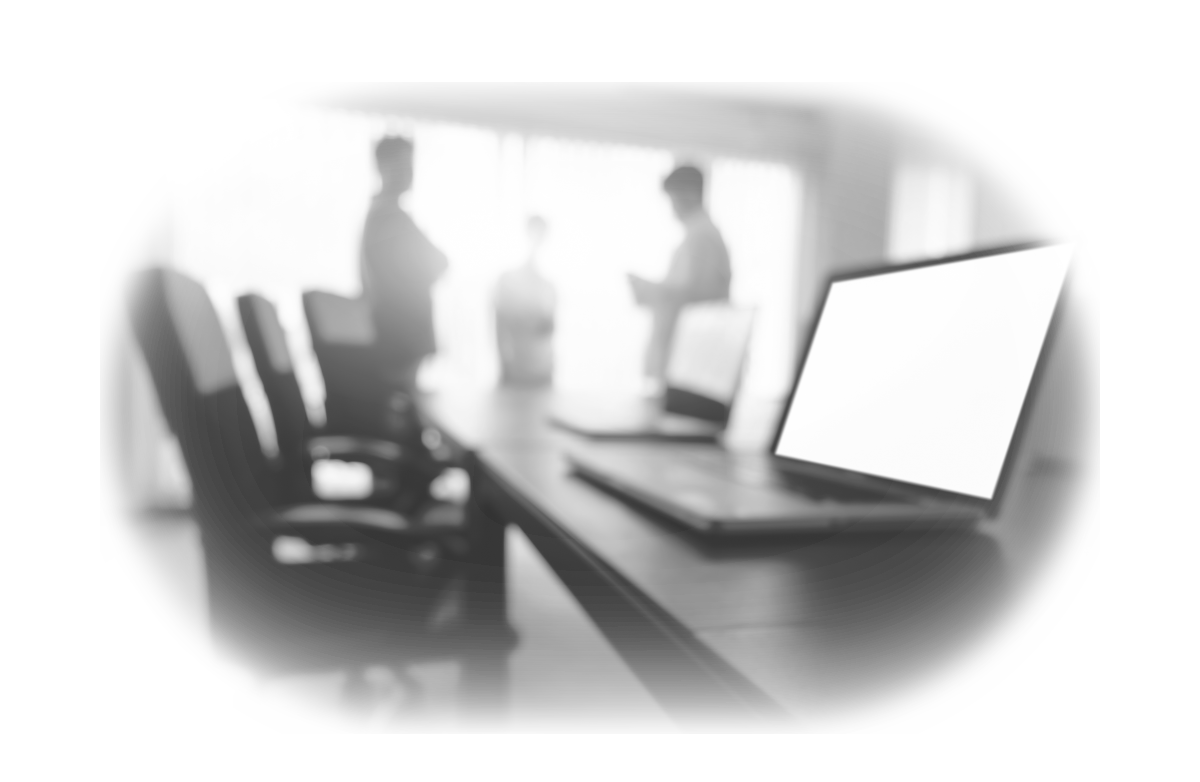
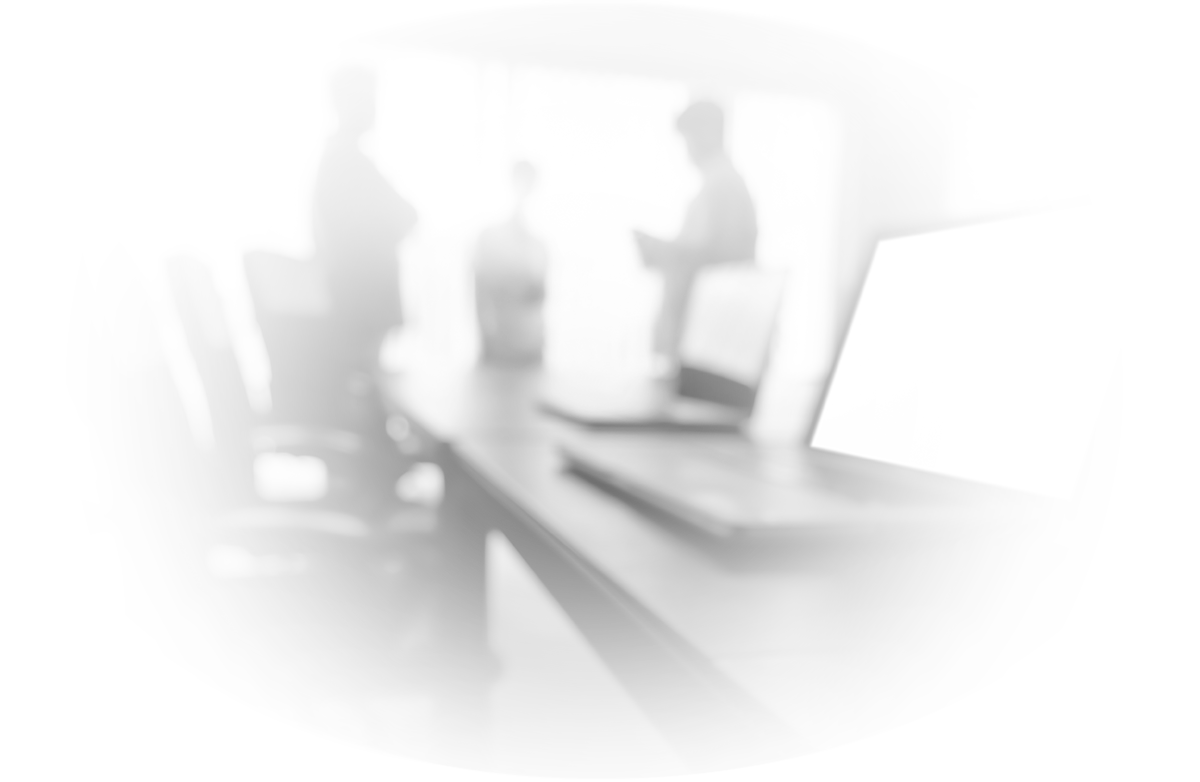
feat: best layout variant; fix: teams (json and styles; fix: about (2 pictures); fix: home_busines.png - new version;

diff --git a/frontend/pages/about/index.js b/frontend/pages/about/index.js
@@ -17,19 +17,39 @@ export default function About({language, props}) {
                         <div className={styles.rightImage}>
                             <div className={styles.picture}>
                                 <Image
-                                    src={image.src}
+                                    src={image[0].src}
                                     width={300}
-                                    height={200}
+                                    height={400}
                                     alt=''
                                 >
                                 </Image>
                             </div>
                             <div className={styles.figcaption}>
-                                {image.capture}
+                                {image[0].capture}
                             </div>
                         </div>
-                        <p className={styles.textAbout} dangerouslySetInnerHTML={{__html:context}}>
-                        </p>
+
+                        <p className={styles.textAbout} dangerouslySetInnerHTML={{__html:context[0]}}/>
+
+                        <br/>
+
+                        <div className={styles.leftImage}>
+                            <div className={styles.picture}>
+                                <Image
+                                    src={image[1].src}
+                                    width={300}
+                                    height={200}
+                                    align='left'
+                                    vspace={5}
+                                    alt=''
+                                >
+                                </Image>
+                            </div>
+                            <div className={styles.figcaption}>
+                                {image[1].capture}
+                            </div>
+                        </div>
+                        <p className={styles.textAbout} dangerouslySetInnerHTML={{__html:context[1]}}/>
                     </div>
                 </div>
                 

diff --git a/frontend/components/public/Teams/TeamItem.js b/frontend/components/public/Teams/TeamItem.js
@@ -3,6 +3,10 @@ import Image from 'next/image'
 import styles from '../../../styles/public/Team.module.scss'
 
 const TeamItem = ( { item } ) => {
+
+    const isFully = item.description?.length > 250 ? true : false;
+    const isEmpty = item.description?.length===undefined
+
     return <>
         <div
             key = {item.id}
@@ -16,8 +20,8 @@ const TeamItem = ( { item } ) => {
                     {item.jobtitle}
                 </h4>
             </div>
-            <div className={styles.personInfo}>
-                <div className={styles.avatar}>
+            <div className={ isEmpty ? styles.personInfoNone : styles.personInfo}>
+                <div className={ isFully ? styles.fullAvatar : styles.avatar }>
                     <div className={styles.picture}>
                         <Image
                             src={"/images/lawyers"+(item.avatar ?? "/lawyer.jpg")}
@@ -29,7 +33,7 @@ const TeamItem = ( { item } ) => {
                         </Image>
                     </div>
                 </div>
-                <div className={styles.description}>
+                <div className={isFully ? styles.fullDescription : styles.description}>
                     <div dangerouslySetInnerHTML={{__html:item.description}}></div>
                 </div>
             </div>

diff --git a/frontend/styles/public/Team.module.scss b/frontend/styles/public/Team.module.scss
@@ -26,11 +26,16 @@
 
 .TeamBoard{
     padding: 0 25px 25px;
+
+    .details{
+        .adress{
+            text-align: center;
+        }
+    }
 }
 
 .TeamItem{
     max-width: 1000px;
-    min-height: 500px;
     background: white;
     border: 1px solid gray;
     -webkit-filter: drop-shadow($shadow);
@@ -60,6 +65,10 @@
         }
     }
 
+    .personInfoNone{
+        display:none
+    }
+
     .personInfo{
         width: 100%;
         display: flex;
@@ -70,9 +79,9 @@
             flex-direction: column;
         }
 
-        .avatar{
+        .fullAvatar, .avatar{
             display: flex;
-            width: 40%;
+            width: 20%;
             height: 100%;
             margin: 0 auto;
             padding: 5px;
@@ -91,8 +100,12 @@
             }
         }
 
-        .description{
-            width: 60%;
+        .fullAvatar{
+            width: 40%;
+        }
+
+        .fullDescription, .description{
+            width: 80%;
 
             @media (max-width:992px) {
                 width: 100%;
@@ -105,6 +118,10 @@
                     color: black
                 }
             }
+        }
+
+        .fullDescription{
+            width: 60%;
         }
     }
 }

diff --git a/frontend/pages/_app.js b/frontend/pages/_app.js
@@ -1,4 +1,4 @@
-import Layout from '../components/public/Layout'
+import Layout from '../components/Layout'
 import AdminLayout from '../components/admin/Layout'
 import AuthLayout from '../components/auth/Layout'
 
@@ -14,30 +14,6 @@ function JurCorpusApp({ Component, pageProps:{session, ...pageProps} }) {
   const language = router.locale
     ? lang[router.locale] : lang.ru;
 
-  const rout = router.pathname.split('/')[1];
-
-  if (rout == 'auth'){
-    return<>
-      <SessionProvider session={session}>
-        <AuthLayout>
-          <Component 
-            {...pageProps}
-          />
-        </AuthLayout>
-      </SessionProvider>
-    </>
-  } else {
-    if (rout == 'admin'){
-      return<>
-          <SessionProvider session={session}>
-            <AdminLayout>
-              <Component 
-                {...pageProps}
-              />
-            </AdminLayout>
-          </SessionProvider>
-      </>
-    } else {
       return <>
         <Layout
           language={language}
@@ -48,9 +24,6 @@ function JurCorpusApp({ Component, pageProps:{session, ...pageProps} }) {
           />
         </Layout>
       </>
-    }
-  }
-  
 }
 
 export default JurCorpusApp;

diff --git a/frontend/components/Layout.js b/frontend/components/Layout.js
@@ -1,0 +1,42 @@
+import AdminLayout from './admin/Layout'
+import AuthLayout from './auth/Layout'
+import PublicLayout from './public/Layout'
+
+import { SessionProvider } from "next-auth/react"
+import { useRouter } from 'next/router';
+
+const Layout = ( { children, session, language }) => {
+
+    const router = useRouter();
+    const rout = router.pathname.split('/')[1];
+
+    if (rout == 'auth') {
+        return <>
+            <SessionProvider session={session}>
+                <AuthLayout>
+                    { children }
+                </AuthLayout>
+            </SessionProvider>
+        </>
+    } else {
+        if (rout == 'admin') {
+            return <>
+                <SessionProvider session={session}>
+                    <AdminLayout>
+                        { children }
+                    </AdminLayout>
+                </SessionProvider>
+            </>
+        } else {
+            return <>
+                <PublicLayout
+                    language={language}
+                >
+                    {children}
+                </PublicLayout>
+            </>
+        }
+    }
+}
+
+export default Layout;

diff --git a/frontend/styles/public/About.module.scss b/frontend/styles/public/About.module.scss
@@ -70,13 +70,37 @@
         font-size: 16px;
     }
 
-    .rightImage{
+    .leftImage,.rightImage{
         display: flex;
         flex-direction: column;
+        align-self: flex-start;
         width: 300px;
-        height: calc(200px + 1rem);
+        height: calc(400px + 1rem);
         float:right;
         margin: 10px;
+
+        .picture{
+            height: 400px;
+            margin: 0 auto;
+            border: 1px solid gray;
+            -webkit-filter: drop-shadow($shadow);
+        }
+        .figcaption{
+            display: flex;
+            color: gray;
+            justify-content: center;
+        }
+
+        @media (max-width: 1024px) {
+            float: none;
+            margin: 0 auto;
+        }
+    }
+
+    .leftImage{
+        float:left;
+        height: calc(200px + 1rem);
+        // margin-top: 600px;
 
         .picture{
             height: 200px;

diff --git a/frontend/components/public/Teams/Team.js b/frontend/components/public/Teams/Team.js
@@ -21,11 +21,16 @@ const Team = ( { item, isExpanded, handle } ) => {
                 aria-controls="panel1a-content"
                 id="panel1a-header"
             >
-                <h3>{item.department}</h3>
+                <h3> {item.department} </h3>
+                
             </AccordionSummary>
             <AccordionDetails
                 className={styles.details}
             >
+                <div className={styles.adress}>
+                    <h4> Адрес : {item.adress} </h4>
+                </div>
+                <br/>
                 {item.team.map((worker,index)=>(
                     <TeamItem
                         key={index}

diff --git a/frontend/pages/teams/index.js b/frontend/pages/teams/index.js
@@ -16,7 +16,6 @@ export default function Teams({ language }) {
         setExpanded(isExpanded ? panel : false);
     };
 
-
     return <>
         <div className={styles.TeamContainer}>
             <div className={styles.TeamTitle}>

diff --git a/frontend/next.config.js b/frontend/next.config.js
@@ -43,3 +43,5 @@ const nextConfig = {
 }
 
 module.exports = nextConfig
+
+// TODO: https://www.npmjs.com/package/next-with-polyfill
